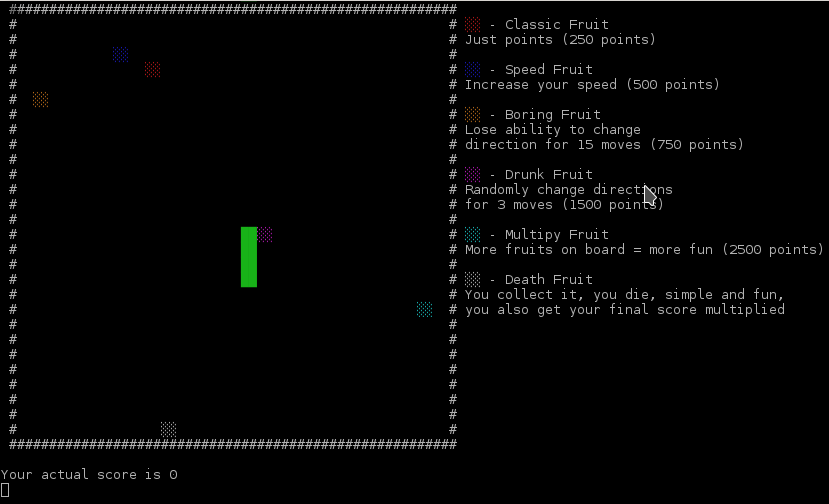
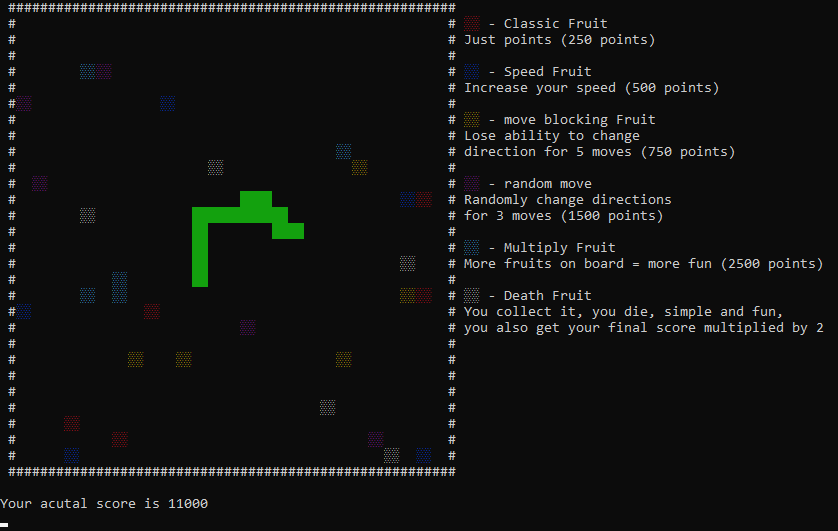
Updated the screen and changed fruit names on instruction for player back to Drunk and Boring

diff --git a/Map.py b/Map.py
@@ -54,11 +54,11 @@ class Map_obj:
         self.board[self.map_x - 1][4] = fruits["speed_fruit_symbol"] + " - Speed Fruit"
         self.board[self.map_x - 1][5] = "Increase your speed (500 points)"
         self.board[self.map_x - 1][7] = (
-            fruits["move_blocking_fruit_symbol"] + " - move blocking Fruit"
+            fruits["move_blocking_fruit_symbol"] + " - Boring Fruit"
         )
         self.board[self.map_x - 1][8] = "Lose ability to change"
         self.board[self.map_x - 1][9] = "direction for 5 moves (750 points)"
-        self.board[self.map_x - 1][11] = fruits["random_move_symbol"] + " - random move"
+        self.board[self.map_x - 1][11] = fruits["random_move_symbol"] + " - Drunk Fruit"
         self.board[self.map_x - 1][12] = "Randomly change directions"
         self.board[self.map_x - 1][13] = "for 3 moves (1500 points)"
         self.board[self.map_x - 1][15] = (
